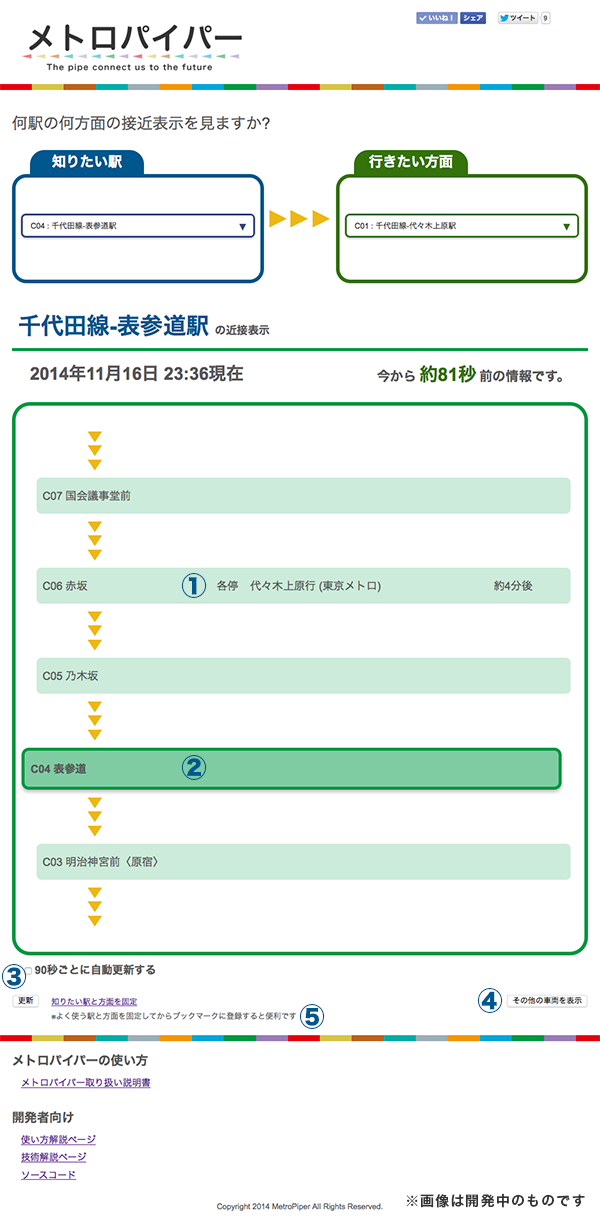
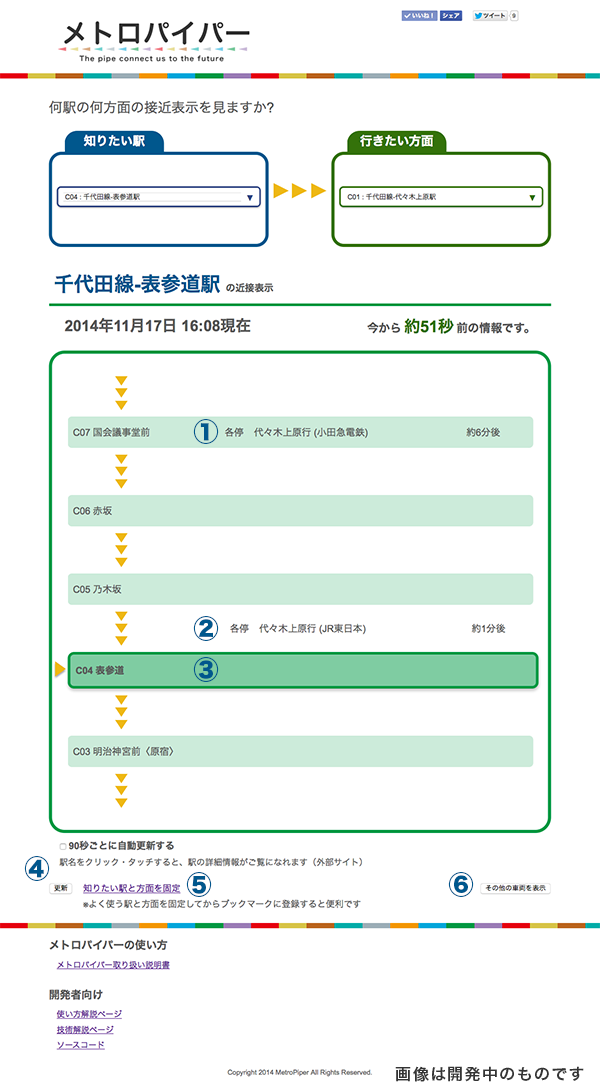
the revision to apply for the contest

diff --git a/HTML/style_mobile.css b/HTML/style_mobile.css
@@ -164,9 +164,9 @@ Header Settings
 h1#main_title{
 	font-size:4em;
 	font-weight:bold;
-	width:460px;
+	width:400px;
 	margin:0px auto;
-	padding-left:20px;
+	padding-left:0px;
 }
 
 
@@ -176,14 +176,16 @@ Main Contents Settings
 #main_contents{
 	width:460px;
 	margin:0 	auto;
-	padding:10px;
+	padding:10px 10px 0 10px;
 	margin-top:20px;
 	font-weight:bold;
 }
 
 #main_contents h2{
-	font-size:2.0em;
-	height:60px;
+	font-size:1.8em;
+	margin:0 20px;
+	line-height:1.8;
+	margin-bottom:30px;
 }
 
 /*====================================
@@ -341,8 +343,17 @@ Result Settings (Default) --- Title Area
 ====================================*/
 
 #result{
-	margin:0 auto 30px;
+	margin:0 auto 10px;
 	font-size:14px;
+}
+
+#result a{
+	text-decoration:none;
+	color:#595959;
+}
+
+#result a:hover{
+	text-decoration:underline;
 }
 
 #tile_station{
@@ -361,7 +372,7 @@ span#title_station{
 #time_table{
 	border:6px solid #595959;
 	border-radius:30px;
-	padding:10px 5px;
+	padding:15px 5px;
 }
 
 #get_time{
@@ -482,7 +493,8 @@ Result Settings (Default) --- Time Table
 	border:4px solid #595959;
 	border-radius:8px;
 	line-height:2;
-	margin-left:4px;
+	margin-left:15px;
+	position:relative;
 -webkit-box-shadow: 0px 4px 5px 0px rgba(50, 50, 50, 0.3);
 -moz-box-shadow:    0px 4px 5px 0px rgba(50, 50, 50, 0.3);
 box-shadow:         0px 4px 5px 0px rgba(50, 50, 50, 0.3);
@@ -493,18 +505,18 @@ box-shadow:         0px 4px 5px 0px rgba(50, 50, 50, 0.3);
 	padding:10px ;
 	background:rgba(89,89,89,0.3);
 	border-radius:8px;
-	margin-left:20px;
 	line-height:2;
 	font-weight:normal;
+	margin-left:15px;
 }
 
 .between{
 	width:380px;
 	height:80px;
 	line-height:5;
+	margin-left:15px;
 	padding-left:40px;
-	margin-left:20px;
-	background:url(images/yajirushi_vertical_mobile.png) no-repeat 10px ;
+	background:url(images/yajirushi_vertical_mobile.png) no-repeat 15px ;
 	font-weight:normal;
 }
 
@@ -512,6 +524,20 @@ box-shadow:         0px 4px 5px 0px rgba(50, 50, 50, 0.3);
 	float:left;
 	width:290px;
 }
+
+.current_station:before{
+	display:block;
+	height:30px;
+	content:"▶";
+	font-size:30px;
+	color:#EEB814;
+	position:absolute;
+	top:-8px;
+	left:-25px;
+	text-shadow: 0px 3px 3px rgba(50, 50, 50, 0.5);
+	padding-bottom:8px;
+}
+
 
 .train_info{
 	float:left;
@@ -769,11 +795,18 @@ Result Settings (Hanzomon Line) --- Time Table
 /*====================================
 Footer Settings 
 ====================================*/
+#click_station{
+	display:block;
+	margin-left:20px;
+	margin-top:10px;
+	font-size:0.9em;
+	font-weight:normal;
+}
 
 #btn_area{
 	width:440px;
 	margin:0 auto;
-	padding:20px;
+	padding:20px 20px 20px;
 }
 
 #autoupdate_request{
@@ -821,5 +854,5 @@ Footer Settings
 #static{
 	display:block;
 	line-height:1.8;
-	margin:10px 0;
+	margin:10px 0 10px 8px;
 }

diff --git a/HTML/manual.html b/HTML/manual.html
@@ -7,7 +7,7 @@
 <meta http-equiv="Content-Type" content="text/html; charset=utf-8">
 <meta name="description" content="メトロパイパーの使い方を説明">
 <meta http-equiv="Content-Style-Type" content="text/css" />
-<!--<meta name="viewport" content="width=480px">-->
+<meta name="viewport" content="width=480px">
 <link rel="stylesheet" href="manual_style.css" media="screen and (min-width:768px)">
 <link rel="stylesheet" href="manual_style_mobile.css" media="screen and (min-width:0px) and (max-width:768px)">
 <body class="yui3-cssfonts">
@@ -32,7 +32,7 @@
 行きたい方面をメニューから選択します。
 </div>
 
-<div class="step" style="margin-bottom:120px;">
+<div class="step" style="margin-bottom:60px;">
 <h2>STEP3</h2>
 情報を取得して下部に表示されます。
 </div>
@@ -43,19 +43,23 @@
 </div>
 
 <div class="caption">
-②知りたい駅は枠付・色濃く表示されます。
+②各停代々木上原行きは乃木坂と表参道の駅間を走っています。
 </div>
 
 <div class="caption">
-③チェックを入れると自動的に情報を更新します。更新ボタンで手動で更新します
+③知りたい駅は枠付・色濃く表示され、左側に▶が付きます。
 </div>
 
 <div class="caption">
-④その他の車両を表示を押すと、全線の車両位置情報を表示します。もう一度押すと前後の情報に切り替わります。
+④チェックを入れると自動的に情報を更新します。更新ボタンで手動で更新します
 </div>
 
 <div class="caption">
 ⑤「知りたい駅と方面を固定」をクリックすると、知りたい駅と行きたい方面の情報を固定したURLを取得します。ブラウザを更新しても再入力する必要がありません。よく使う駅の場合はブックマークに登録すると便利です。
+</div>
+
+<div class="caption">
+⑥その他の車両を表示を押すと、全線の車両位置情報を表示します。もう一度押すと前後の情報に切り替わります。
 </div>
 
 <p id="caution">※時間は東京メトロの標準運行時間を元に表示しています。列車のダイヤが乱れた時はその正確性については保証しかねます。</p>

diff --git a/HTML/style.css b/HTML/style.css
@@ -340,6 +340,15 @@ Result Settings (Default) --- Title Area
 	font-size:1.4em;
 }
 
+#result a{
+	text-decoration:none;
+	color:#595959;
+}
+
+#result a:hover{
+	text-decoration:underline;
+}
+
 #tile_station{
 	width:960px;
 	height:60px;
@@ -471,26 +480,38 @@ Result Settings (Default) --- Time Table
 	padding:0 10px ;
 	border:5px solid #595959;
 	border-radius:12px;
-
+	position:relative;
+	margin-left:15px;
 -webkit-box-shadow: 0px 4px 5px 0px rgba(50, 50, 50, 0.3);
 -moz-box-shadow:    0px 4px 5px 0px rgba(50, 50, 50, 0.3);
 box-shadow:         0px 4px 5px 0px rgba(50, 50, 50, 0.3);
 }
 
+.current_station:before{
+	display:block;
+	content:url(images/yajirushi_current_station.png);
+	font-size:30px;
+	color:#EEB814;
+	position:absolute;
+	top:18px;
+	left:-28px;
+}
 
 .station{
 	width:870px;
 	padding:0 10px ;
 	background:#3c3c3c;
 	border-radius:8px;
-	margin-left:25px;
+	margin-left:20px;
 	font-weight:normal;
 }
+
+
 
 .between{
 	width:870px;
 	min-height:90px;
-	margin-left:30px;
+	margin-left:21px;
 	padding:0 10px;
 	background:url(images/yajirushi_vertical.png) no-repeat 80px ;
 	font-weight:normal;
@@ -752,6 +773,14 @@ Result Settings (Hanzomon Line) --- Time Table
 /*====================================
 Footer Settings 
 ====================================*/
+#click_station{
+	display:block;
+	margin-left:20px;
+	margin-top:10px;
+	font-size:0.9em;
+	font-weight:normal;
+}
+
 
 #btn_area{
 	width:960px;
@@ -802,9 +831,11 @@ Footer Settings
 }
 
 #static{
+	font-size:1.3em;
 	float:left;
 	line-height:1.8;
 	display:block;
 	margin-left:20px;
+	margin-top:-5px;
 }
 

diff --git a/TEMPLATE.HTML/LOCTABLE_PART.HTML b/TEMPLATE.HTML/LOCTABLE_PART.HTML
@@ -26,7 +26,7 @@
 <!-- LC_ITERATION-1 (繰り返し区間メイン…駅)   === 1:レコード種別("current_station","station","between") 2:2駅より離れていれば"further"  === -->
     <div class="%1 %2 clearfix">                             <!-- 注目駅:"current_station" 他駅:"station" 駅間:"between"  -->
   <!-- LC_ITERATION-2 (繰り返し区間サブ…車両) === 3:駅ナンバー 4:駅名 5:種別コード 6:種別名 7:行先駅 8:車両会社 9:標準到着時間 ============ -->
-      <div class="station_name">%3 %4</div>         <!-- 駅ナンバー 駅名    (駅間や同名連続2度目以降は空欄で来る)-->
+      <div class="station_name"><a href="%10" target="_blank">%3 %4</a></div>         <!-- 駅ナンバー 駅名    (駅間や同名連続2度目以降は空欄で来る)-->
       <div class="train_info">
         <div class="train_assort %5">%6</div>       <!-- 種別               (なければ空欄で来る)                 -->
         <div class="train_for">%7 %8</div>          <!-- 行先駅 車両所有会社(なければ空欄で来る)                 -->
@@ -41,4 +41,5 @@
 <!-- /LC_FOOTER -->
 </div>
  <label><input type="checkbox" id="autoupdate_request" name="autoupdate_request" value="autoupdate_request" onclick="set_static_url()" /> %15秒ごとに自動更新する</label>
+<span id="click_station"> 駅名をクリック・タッチすると、駅の詳細情報がご覧になれます（外部サイト）</span>
 <!-- /LOC_TABLE -->

diff --git a/HTML/manual_style_mobile.css b/HTML/manual_style_mobile.css
@@ -133,13 +133,13 @@ body{
 }
 
 #header{
-	width:960px;
+	width:440px;
 	padding:20px;
 	margin:0 auto;
 }
 
 #header h1{
-	font-size:2.6em;
+	font-size:1.8em;
 	font-weight:bold;
 	margin-bottom:30px;
 }
@@ -148,19 +148,19 @@ body{
 	display:inline;
 	width:0px;
 	height:63px;
-	border:6px solid #00578d;
-	border-radius:6px;
+	border:3px solid #00578d;
+	border-radius:3px;
 	margin-right:15px;
 }
 
 #header p{
 	font-size:1.6em;
-	margin-left:45px;
+	margin-left:20px;
 }
 
 #main_contents{
-	width:940px;
-	padding:20px;
+	width:460px;
+	padding:10px;
 	margin:0 auto;
 	font-size:1.2em;
 	line-height:1.8;
@@ -168,20 +168,27 @@ body{
 
 #img_area{
 	float:left;
-	width:600px;
-	height:1250px;
-	background:url(images/SS_PC.png) no-repeat;
-	border:1px solid #EDEDED;
+	width:460px;
+	height:2130px;
+	margin-top:30px;
+	background:url(images/SS_M.png) no-repeat 0px 0px;
+}
+
+#img_area:before{
+	display:block;
+	content:"操作画面";
+	font-weight:bold;
+	font-size:1.3em;
+	margin-top:-20px;
 }
 
 #description_area{
 	float:right;
-	width:300px;
-	margin-left:20px;
+	width:460px;
 }
 
 .step{
-	width:300px;
+	width:460px;
 	margin-bottom:40px;
 }
 
@@ -196,7 +203,7 @@ body{
 }
 
 .caption{
-	width:300px;
+	width:430px;
 	margin-bottom:40px;
 	padding:15px;
 	border-radius:12px;

diff --git a/HTML/manual_style.css b/HTML/manual_style.css
@@ -159,8 +159,8 @@ body{
 }
 
 #main_contents{
-	width:940px;
-	padding:20px;
+	width:960px;
+	padding:10px;
 	margin:0 auto;
 	font-size:1.2em;
 	line-height:1.8;
@@ -168,9 +168,10 @@ body{
 
 #img_area{
 	float:left;
-	width:600px;
-	height:1250px;
-	background:url(images/SS_PC.png) no-repeat;
+	width:620px;
+	height:1150px;
+	margin-top:30px;
+	background:url(images/SS_PC.png) no-repeat 10px 10px;
 	border:1px solid #EDEDED;
 }
 
